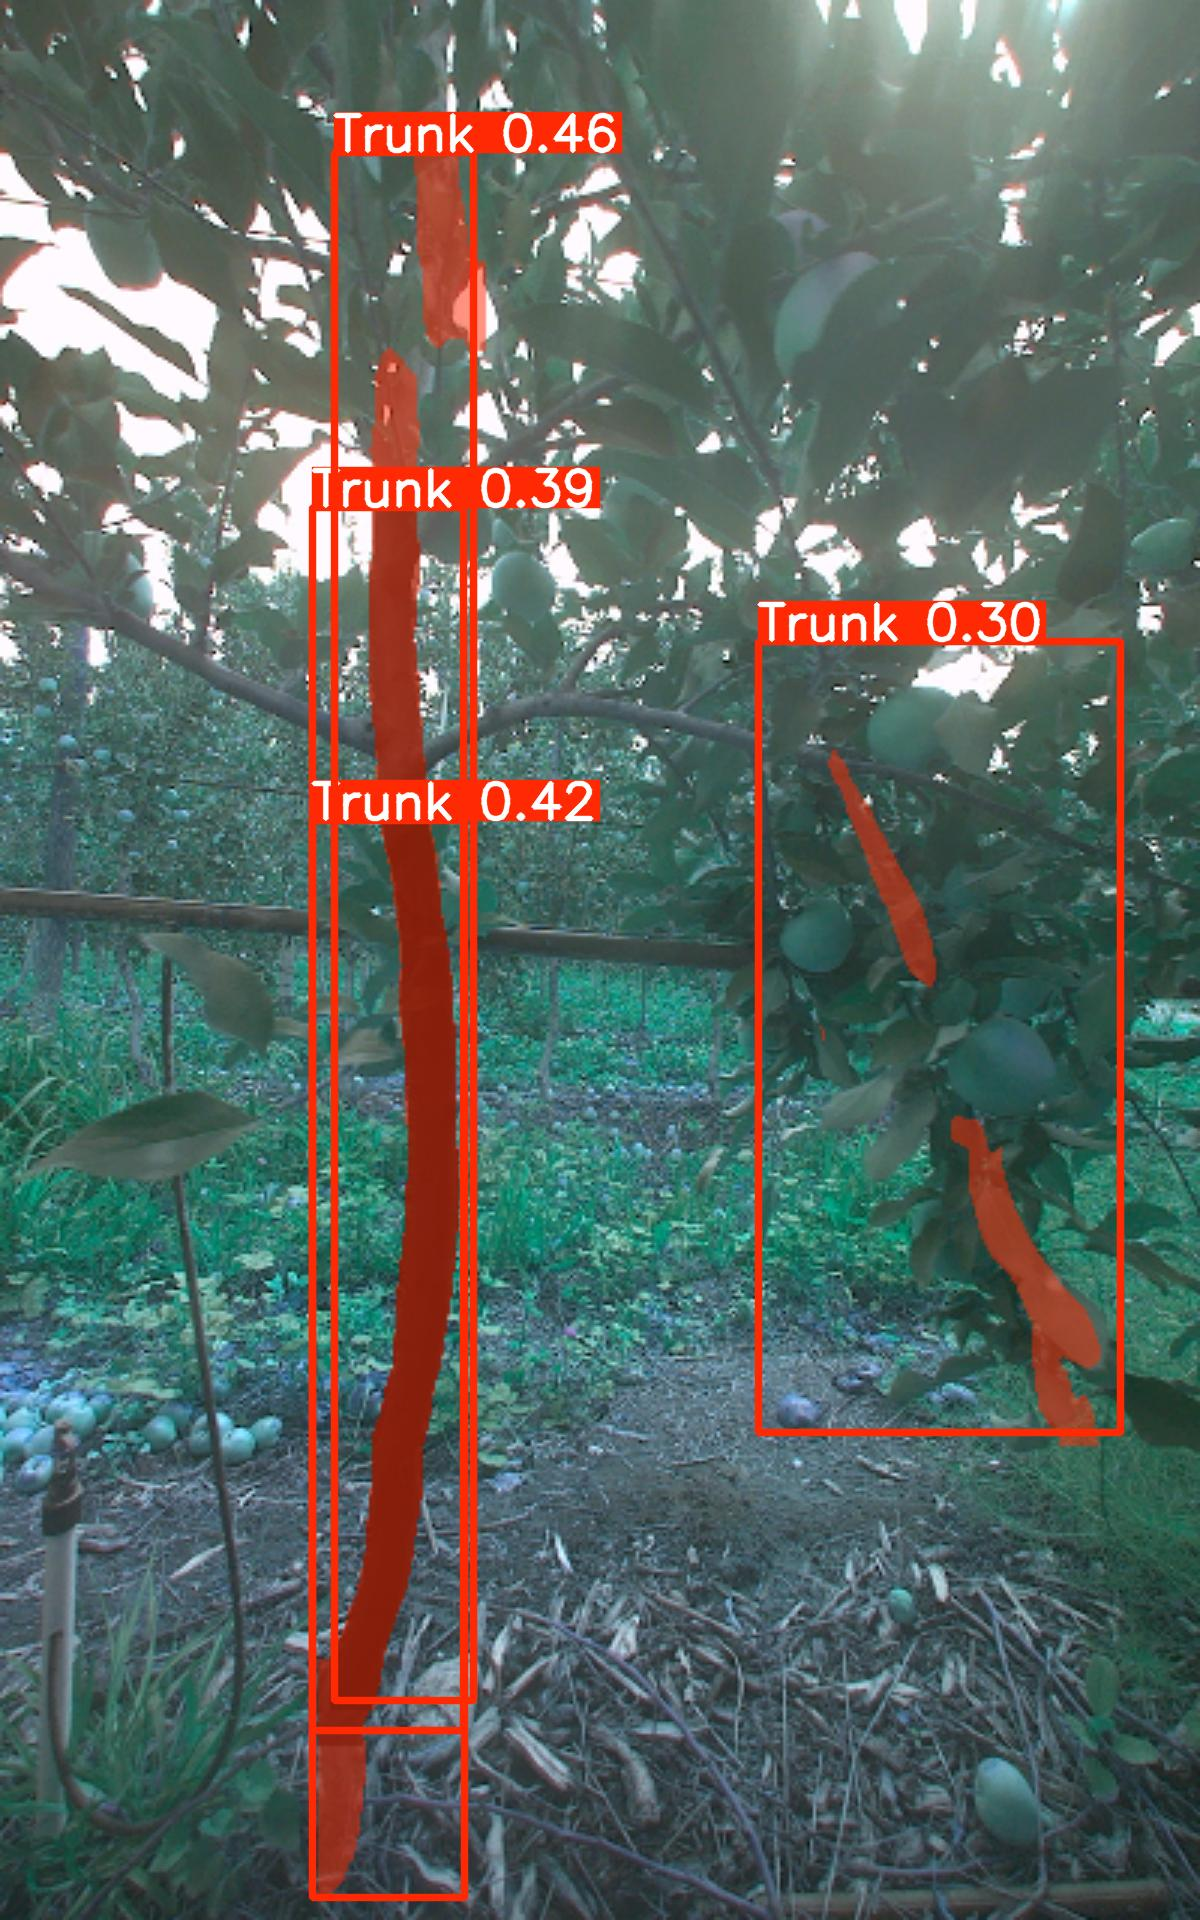
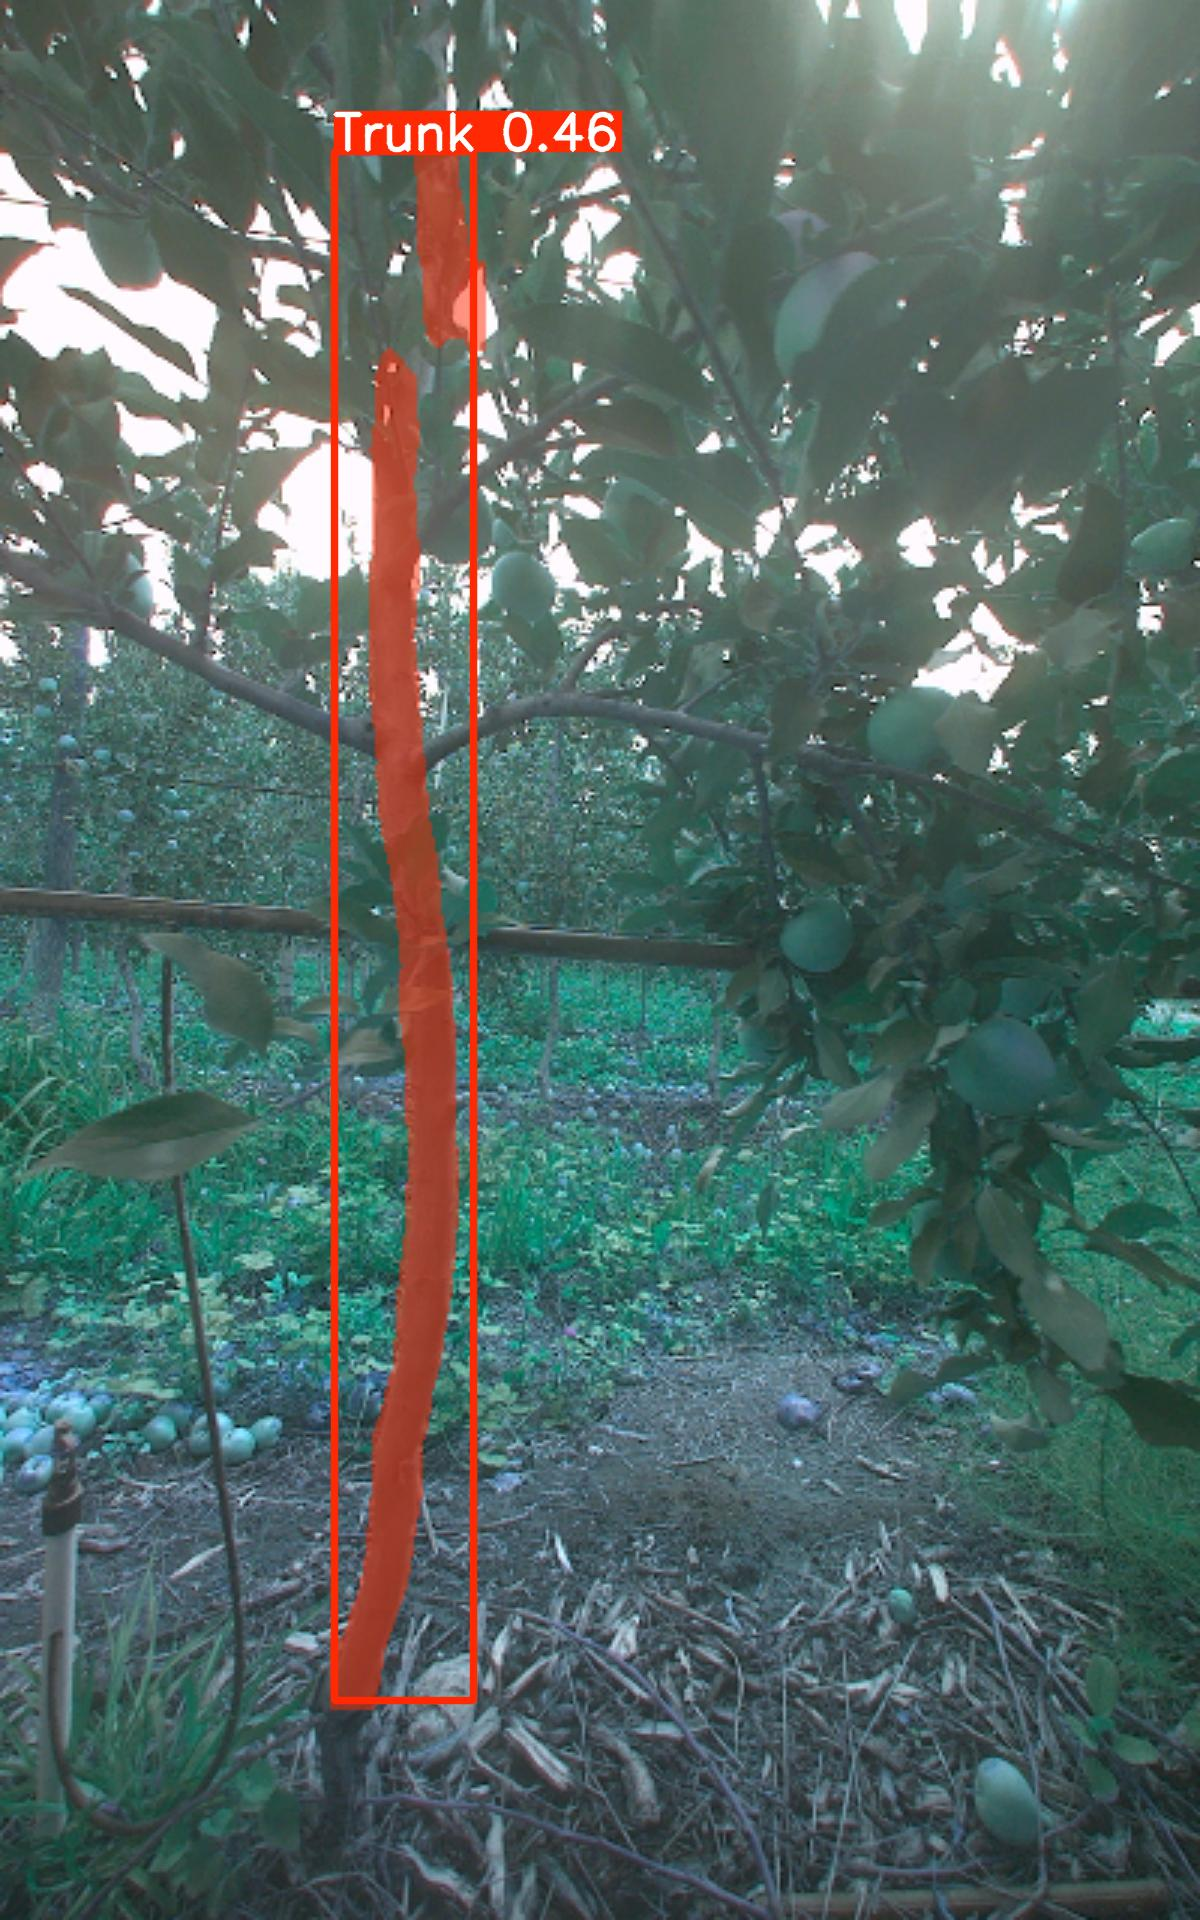
removed overlapping masks

diff --git a/helpers.py b/helpers.py
@@ -3,6 +3,7 @@ import cv2
 import os
 import random
 import shutil
+import torch
 
 def get_depth_filename_from_image_filename(image_filename):
   return f"{image_filename[:3]}_depth.png"
@@ -78,5 +79,84 @@ def overlay_labels(image_folder, label_folder, output_folder):
         cv2.imwrite(os.path.join(output_folder, f"{image_file[:3]}_masked.jpg"),
                                  masked_image)
 
+def remove_overlaps(result):
+    pass
 
+def filter_by_depth(result):
+    pass
 
+def mask_overlaps(result):
+    """
+    AI WROTE THIS FUNCTION. I asked it to tell me the percentage overlap between masks
+
+    Returns:
+      iou: [N,N] IoU matrix between masks
+      overlap_smaller: [N,N] intersection / min(area_i, area_j)
+      ids: list of indices for masks (0..N-1)
+    """
+    if result.masks is None or len(result.masks) <= 1:
+        return None, None, []
+
+    # result.masks.data: [N, H, W] (float/byte on device)
+    m = result.masks.data
+    if m.dtype != torch.bool:
+        m = m > 0.5  # binarize just in case
+
+    # areas: [N]
+    areas = m.flatten(1).sum(dim=1).float()
+
+    # intersections: [N,N]
+    # (broadcasted AND; use multiply for speed on GPU)
+    inter = (m.unsqueeze(1) & m.unsqueeze(0)).flatten(2).sum(dim=2).float()
+
+    # unions: [N,N]
+    unions = areas.unsqueeze(1) + areas.unsqueeze(0) - inter
+    iou = torch.where(unions > 0, inter / unions, torch.zeros_like(unions))
+
+    # percent overlap relative to the smaller mask
+    mins = torch.minimum(areas.unsqueeze(1), areas.unsqueeze(0))
+    overlap_smaller = torch.where(mins > 0, inter / mins, torch.zeros_like(mins))
+
+    return iou.cpu().numpy(), overlap_smaller.cpu().numpy(), list(range(m.shape[0]))
+
+def group_from_overlap(over_small, thresh=0.7):
+    """
+    AI WROTE THIS FUNCTION. I asked it to group the masks by the over_small array
+
+    over_small: 2D numpy array from mask_overlaps()
+    thresh: overlap threshold (0.5 = 50%)
+    Returns: list of lists, where each inner list is a group of indices.
+    """
+    n = over_small.shape[0]
+    visited = [False] * n
+    groups = []
+
+    for i in range(n):
+        if not visited[i]:
+            group = [i]
+            visited[i] = True
+            # check others
+            for j in range(n):
+                if not visited[j] and over_small[i, j] >= thresh:
+                    group.append(j)
+                    visited[j] = True
+            groups.append(group)
+
+    return groups
+
+def remove_overlaps(result):
+    if len(result)<=1:
+        return result
+    overlaps = mask_overlaps(result)
+    mask_groups = group_from_overlap(overlaps[1])
+    best_masks = []
+    for mask_group in mask_groups:
+        confidences = []
+        for mask in mask_group:
+            confidences.append((mask, result.boxes.conf[mask]))
+        best_mask_index, best_max_confidence = max(confidences, key=lambda x: x[1])  # WRITTEN BY AI
+        best_masks.append(best_mask_index)
+        # take the mask with the highest confidence
+    result.masks = result.masks[best_masks]
+    result.boxes = result.boxes[best_masks]
+    return result

diff --git a/main.py b/main.py
@@ -30,6 +30,7 @@ EVALUATION_SET_DEPTH_FOLDER_NAME = 'EvaluationSetDepth'
 EVALUATION_SET_OUTPUTS_FOLDER_NAME = 'EvaluationSetOutputs'
 TRAINING_DATA_FOLDER_NAME = 'Training Data'
 MASKED_TRAINING_DATA_FOLDER_NAME = 'MaskedTrainingData'
+CONF_THRESH = .35
 
 EVALUATE_EVALUATION_SET = True
 OVERLAY_LABELS_ON_TRAIN_DATA = True
@@ -197,13 +198,26 @@ def part2():
         os.mkdir(EVALUATION_SET_OUTPUTS_FOLDER_NAME)
 
         eval_images = []
+        # for eval_image_filename in os.listdir(EVALUATION_SET_RGB_FOLDER_NAME)[:3]: #TODO: REMOVE, ONLY 3 FOR TESTING
+        # for eval_image_filename in os.listdir(EVALUATION_SET_RGB_FOLDER_NAME)[34:35]: #TODO: REMOVE, ONLY 3 FOR TESTING
         for eval_image_filename in os.listdir(EVALUATION_SET_RGB_FOLDER_NAME): #TODO: REMOVE, ONLY 3 FOR TESTING
             eval_images.append(os.path.join(EVALUATION_SET_RGB_FOLDER_NAME, eval_image_filename))
         results = model(eval_images)
         for result in results:
+            # AI WROTE THE BELOW 3 LINES. I asked it to filter predictions for me based on a confidence threshold
+            if result.masks is not None:
+                result.masks = result.masks[result.boxes.conf > CONF_THRESH]
+            result.boxes = result.boxes[result.boxes.conf > CONF_THRESH]
+
+            # Remove overlaps
+            result = remove_overlaps(result)
+
+            # Filter by depth
+
             im = result.plot(txt_color=(0,0,255))
             save_path = os.path.join(EVALUATION_SET_OUTPUTS_FOLDER_NAME, f"{result.path.split('\\')[1][:3]}_predict.jpg")
             Image.fromarray(im).save(save_path)
+            print()
 
 
 
